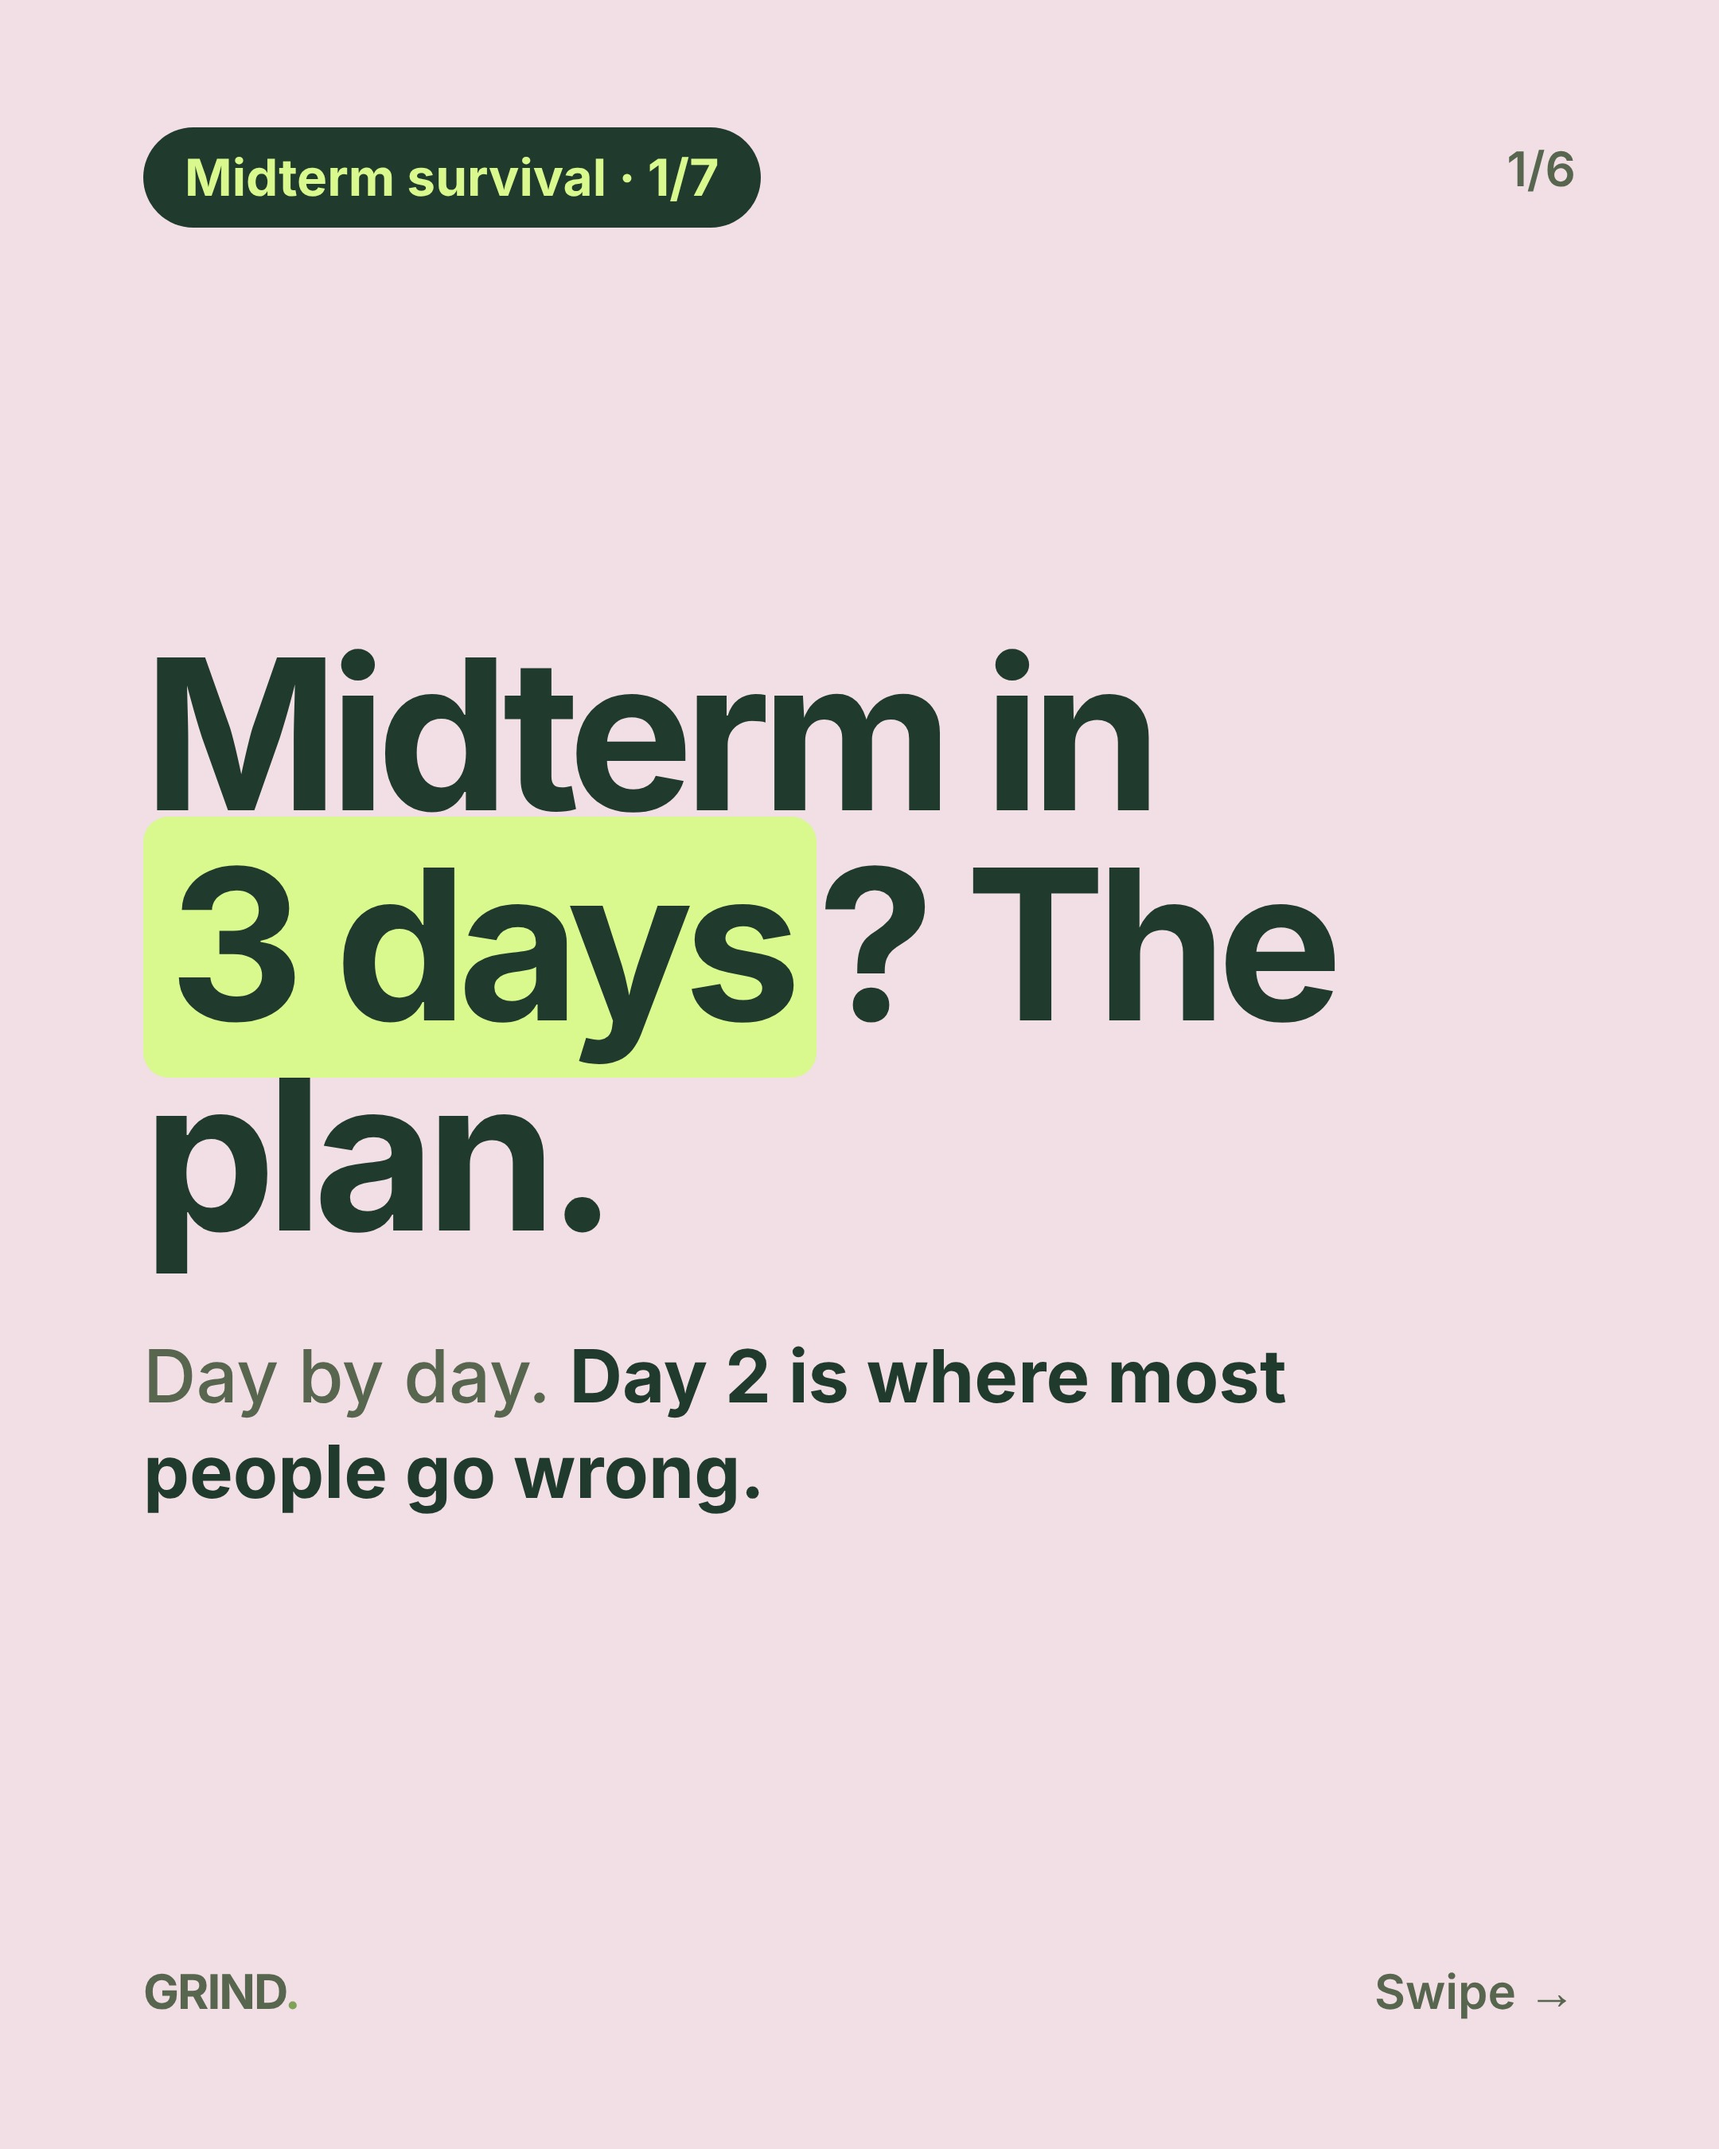
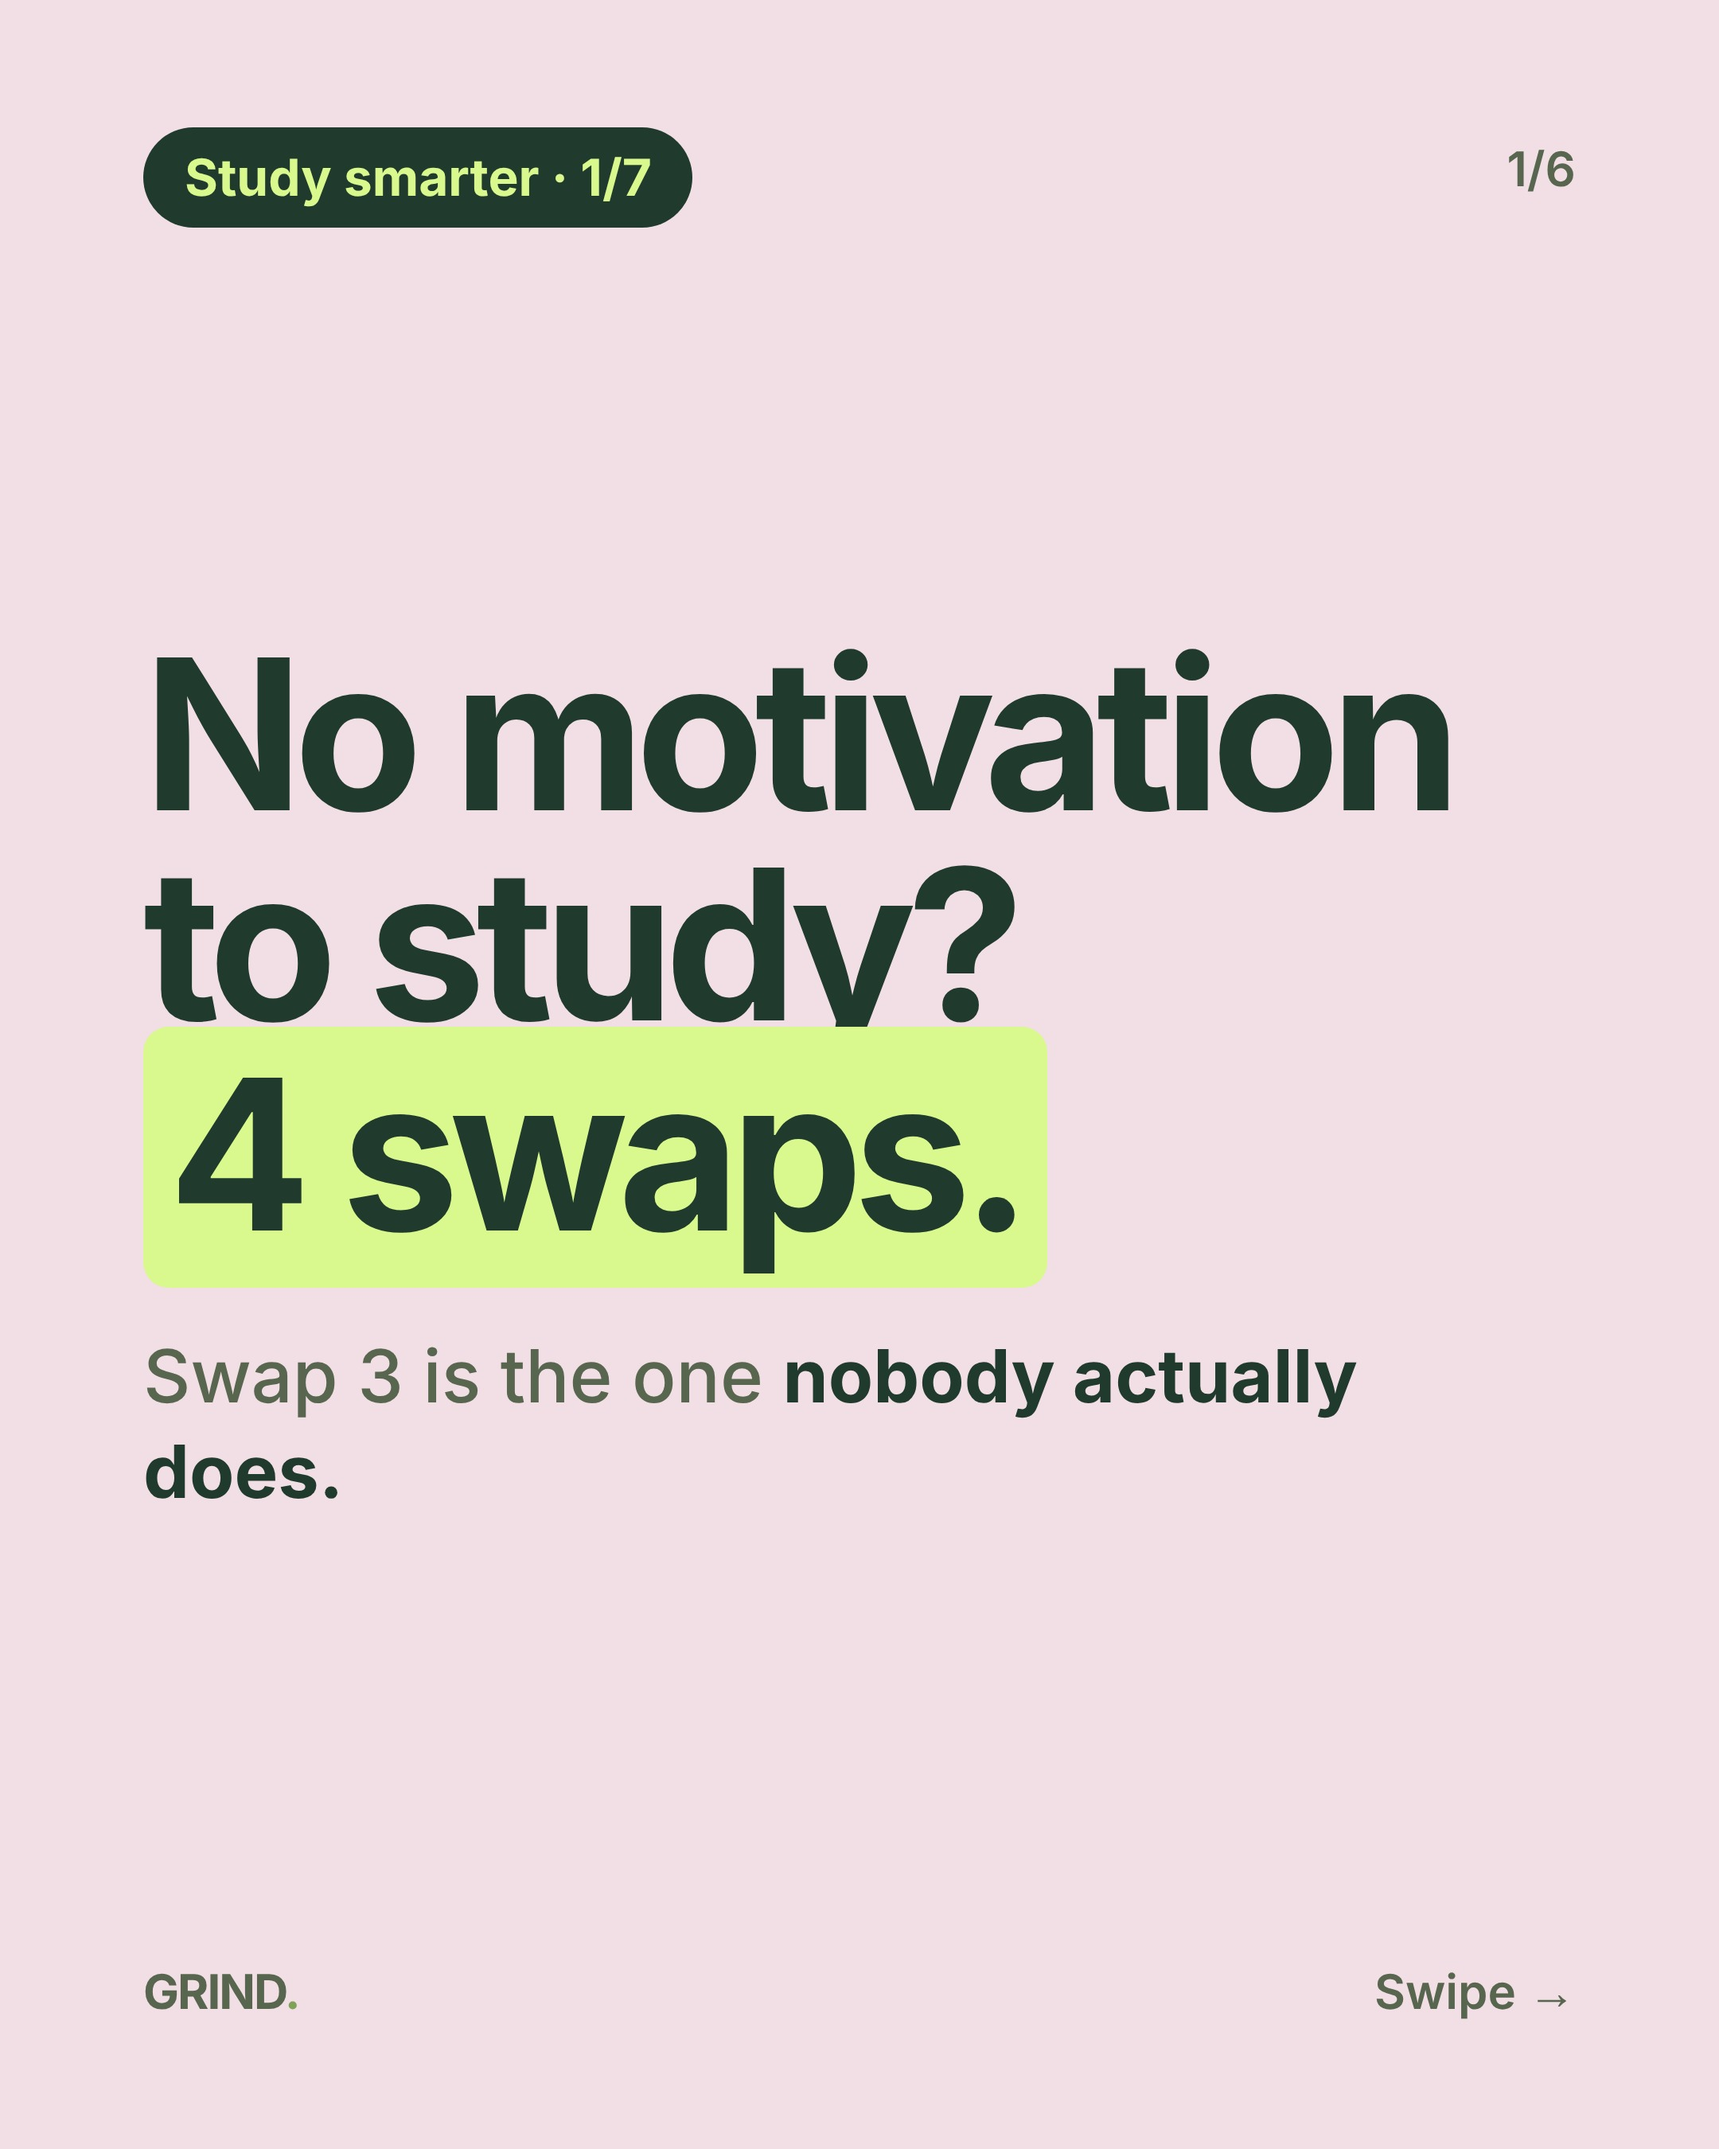
TikTok 2026-11-03: slot B new series Study smarter 1/7
Claude-Session: https://claude.ai/code/session_01EkUjsZuoMdygFNzWQjmzbP

Changed region(s): [[0.062, 0.28, 0.8685, 0.7156], [0.0931, 0.0622, 0.4653, 0.1244]]

diff --git a/tiktok/log.md b/tiktok/log.md
@@ -17,4 +17,4 @@
 | 2026-10-31 | 11:00 photos: 4 study swaps that make it stick. | 15:30 photos: 4 night-before mistakes that cost marks. | 20:00 video: Skip the 2% bonus? | series: Midterm survival 5/7 | format: X mistakes that cost marks (slot A: do these 4 things next, as swaps) | outro: "Take the easy 2." | music: pop/Ab/p1/100bpm/s20262031 | sound: original | (test week day 5; IG carousel paused; bonus-points grade math, sample 2% bonus / 40% final = 5 marks, blush centered outro; IG reel same day is deephouse semester moments) |
 | 2026-11-01 | 11:00 photos: Group project in 2 weeks? Here's the plan. | 15:30 photos: Midterm 2 should not feel like midterm 1. | 20:00 video: 10 more points on your final? | series: Midterm survival 6/7 | format: before / after your midterm (slot A: the plan, day by day) | outro: "Study where it multiplies." | music: lofi/G/p2/90bpm/s20262101 | sound: original | (test week day 6; IG carousel paused; weight-multiplier grade math, sample 10 pts x 40% final = +4, 72 to 76, vs +1 on a 10% quiz, green left aligned outro; IG reel same day is pop plan vs reality) |
 | 2026-11-02 | 12:30 photos (Grindy meme): tag yourself: students during midterm season | 16:30 photos: 4 deadline mistakes that cost easy marks. | 20:30 video: POV: your "20 min" nap | series: Midterm survival 7/7 | format: X mistakes that cost marks, notes app + sticky note look (slot A: tag yourself) | outro: none (POV loop, tiny GRIND. corner tag only) | music: deephouse/F/p6/120bpm/s20262102 | sound: trending | (first day of the new creative system; slot C is a HyperFrames POV loop, lock screen 8:20 PM to 2:47 AM with notification pile-up, 11 s, IG reel same day is grindy unhinged pop) |
-| 2026-11-03 | 12:30 photos (Grindy meme): the 5 stages of getting your midterm back | 16:30 photos: Midterm in 3 days? The plan. | 20:30 video: Failed a midterm? Do this math. | series: Midterm survival 1/7 | format: the plan, day by day, with BEFORE strike lines (slot A: 5 stages of) | outro: "One test is one slice." | music: lofi/D/p2/100bpm/s20262103 | sound: original | (pack REDONE the same evening at the owner's request after Midterm survival 6/7 reached 2,625 views, 123 likes, 42 saves, found via search: copied the 6/7 look (flat blush/cream/green, big headline, lime highlight, series pill, page count, Swipe), search-phrase first caption lines, confession-style one-word questions; slot A keeps Grindy but in the same clean layout; slot C is a DOM midterm-math video, sample 40 on a 25% midterm = 15 points, 75 elsewhere = 66, drop-rule tip, blush outro) |
+| 2026-11-03 | 12:30 photos (Grindy meme): the 5 stages of getting your midterm back | 16:30 photos: No motivation to study? 4 swaps. | 20:30 video: Failed a midterm? Do this math. | series: Study smarter 1/7 (owner: Midterm survival is finished, start new series) | format: do these 4 things next, as BEFORE strike swaps (slot A: 5 stages of) | outro: "One test is one slice." | music: lofi/D/p2/100bpm/s20262103 | sound: original | (pack REDONE the same evening at the owner's request after Midterm survival 6/7 reached 2,625 views, 123 likes, 42 saves, found via search: copied the 6/7 look (flat blush/cream/green, big headline, lime highlight, series pill, page count, Swipe), search-phrase first caption lines, confession-style one-word questions; slot A keeps Grindy but in the same clean layout; slot C is a DOM midterm-math video, sample 40 on a 25% midterm = 15 points, 75 elsewhere = 66, drop-rule tip, blush outro) |
